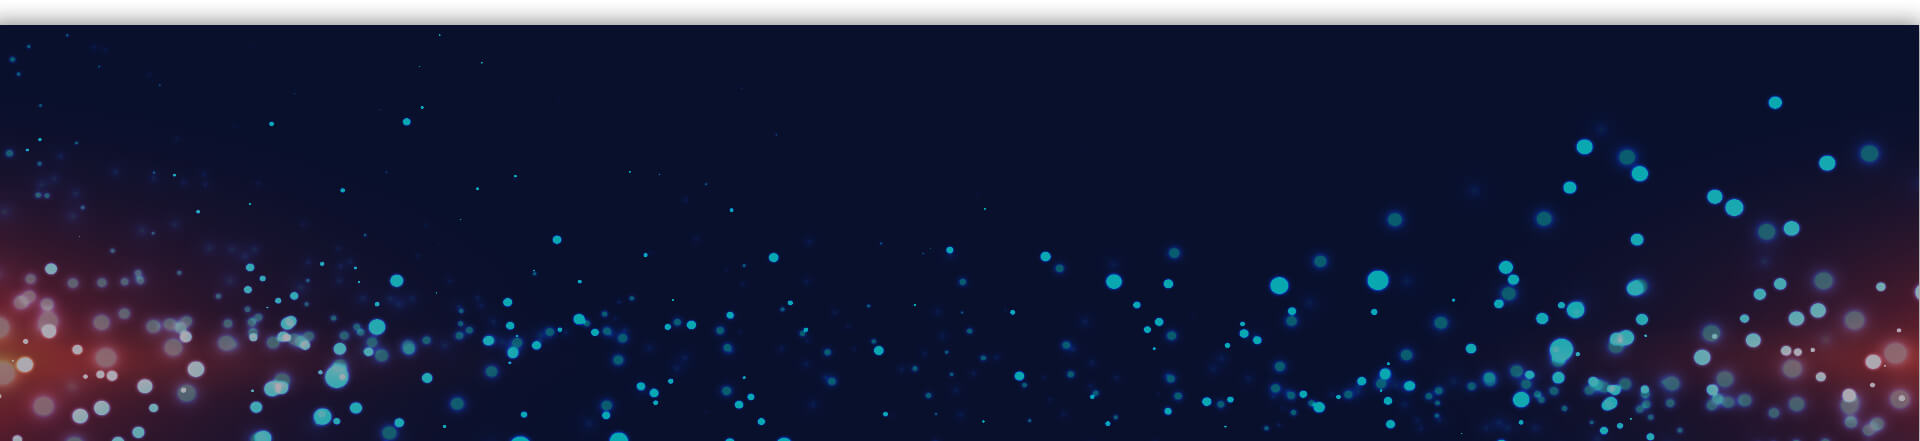
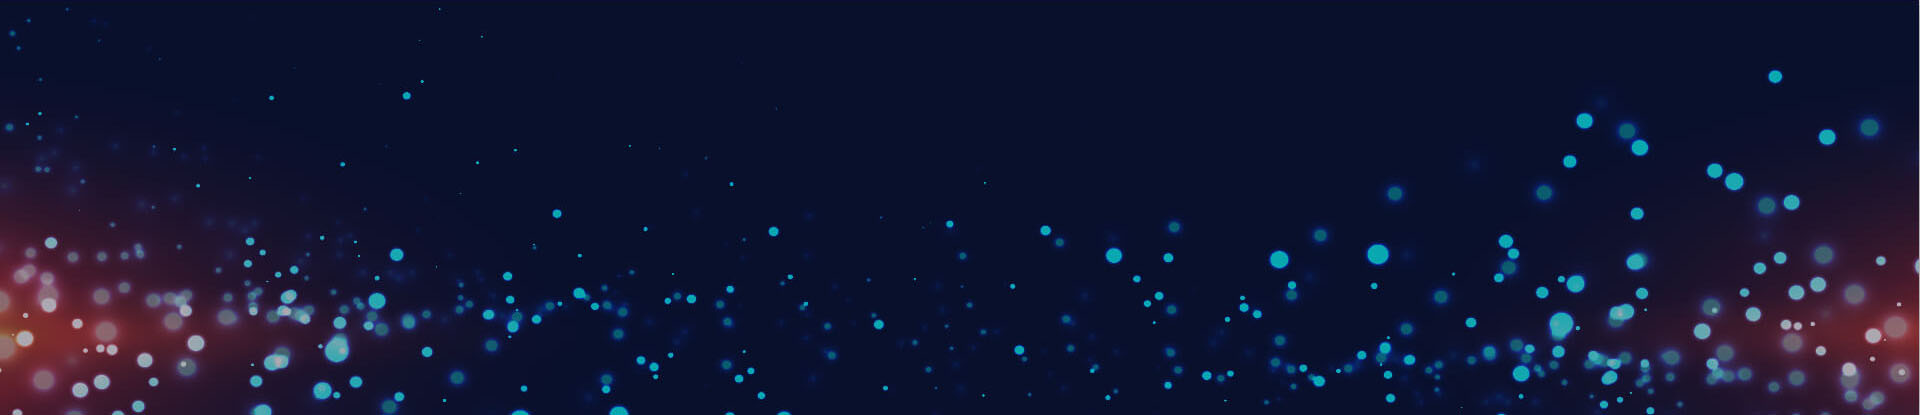
footer

diff --git a/index.html b/index.html
@@ -13,10 +13,10 @@
 </head>
 <body>
     <div class="wrapper">
-        <section class="hero">
+        <section class="hero" id="hero">
             <header class="header">
                 <div class="container header__container">
-                    <a class="logo header__logo">
+                    <a href="#" class="logo header__logo">
                         Service Direct System
                     </a>
                     <a href="mailto:info@mail.ru" class="mail heder__mail">
@@ -45,22 +45,22 @@
             <nav class="menu">
                 <ul class="menu__list">
                     <li class="menu__item">
-                        <a href="#" class="menu__link">
+                        <a href="#hero" class="menu__link">
                             Главная
                         </a>
                     </li>
                     <li class="menu__item">
-                        <a href="#" class="menu__link">
+                        <a href="#services" class="menu__link">
                             Услуги
                         </a>
                     </li>
                     <li class="menu__item">
-                        <a href="#" class="menu__link">
+                        <a href="#about" class="menu__link">
                             О нас
                         </a>
                     </li>
                     <li class="menu__item">
-                        <a href="#" class="menu__link">
+                        <a href="#footer" class="menu__link">
                             Контакты
                         </a>
                     </li>
@@ -87,7 +87,7 @@
                 </div>
             </div>
         </section>
-        <section class="services">
+        <section class="services" id="services">
             <div class="container services__container">
                 <h2 class="title-2 services__title">
                     Наши услуги
@@ -402,6 +402,80 @@
                 </ul>
             </div>
         </section>
+        <section class="about" id="about">
+            <div class="container about__container">
+                <h2 class="title-2 about__title">
+                    О нас
+                </h2>
+                <div class="about__content">
+                    <div class="about__img">
+                        <img src="img/About.png" alt="foto">
+                    </div>
+                    <div class="about__desc">
+                        <p class="about__text about__text--first">
+                            Компания Service Direct System была создана в 2006 году и изначально позиционировала себя как узкоспециализированного разработчика софта для рынка такси. Однако с годами мы находили для наших программ все новые и новые применения. 
+                        </p>
+                        <p class="about__text">
+                            За многие годы деятельности нашей фирмы, у нас сложился и успешно работает дружный коллектив высокопрофессиональных, опытных программистов. Мы готовы решать многоуровневые задачи любой сложности 
+                        </p>
+                    </div>
+                </div>
+            </div>
+        </section>
+        <footer class="footer" id="footer">
+            <div class="container footer__container">
+                <div class="footer__content">
+                    <a href="#" class="logo footer__logo">
+                        Service Direct System
+                    </a>
+                    <p class="footer__name">
+                        ООО «Service Direct System»
+                    </p>
+                    <address class="footer__address">
+                        г. Москва, ул.. Никитская, д. 10
+                    </address>
+                </div>
+                <div class="footer__content footer__content--middle">
+                    <nav class="menu footer__menu">
+                        <ul class="menu__list">
+                            <li class="menu__item">
+                                <a href="#hero" class="menu__link">
+                                    Главная
+                                </a>
+                            </li>
+                            <li class="menu__item">
+                                <a href="#services" class="menu__link">
+                                    Услуги
+                                </a>
+                            </li>
+                            <li class="menu__item">
+                                <a href="#about" class="menu__link">
+                                    О нас
+                                </a>
+                            </li>
+                            <li class="menu__item">
+                                <a href="#footer" class="menu__link">
+                                    Контакты
+                                </a>
+                            </li>
+                        </ul>
+                    </nav>
+                    <p class="footer__copy">
+                        &#xa9; 2019 / Все права защищены
+                    </p>
+                </div>
+                <div class="footer__content footer__content--right">
+                    <a href="tel:+79876543210" class="phone footer__phone">
+                        <img src="img/call.png" alt="phone" class="phone__icon">
+                        <span>+7 (987) 654-32-10</span>
+                    </a>
+                    <a href="mailto:info@mail.ru" class="mail footer__mail">
+                        <img src="img/letter.png" alt="letter" class="mail__icon">
+                        <span>info@mail.ru</span>
+                    </a>
+                </div>
+            </div>
+        </footer>
     </div>
 <script src="js/jquery-3.3.1.min.js"></script>
 <script src="js/jquery.arcticmodal-0.3.min.js"></script>

diff --git a/css/main.css b/css/main.css
@@ -90,7 +90,9 @@ img {
     justify-content: space-between;
 }
 
-.header a {
+.mail,
+.logo,
+.phone {
     color: #fff;
     font-family: 'Myriad Pro';
     font-size: 24px;
@@ -100,6 +102,17 @@ img {
 
 .logo {
     font-family: 'Raleway';
+}
+
+.mail,
+.phone {
+    display: flex;
+    align-items: center;
+}
+
+.mail__icon,
+.phone__icon {
+    margin-right: 9px;
 }
 
 .offer {
@@ -374,4 +387,128 @@ img {
 
 .cost__text--mb {
     margin-bottom: 20px;
+}
+
+/******************* about *******************/
+
+.about {
+    margin-bottom: 150px;
+}
+
+.about__title {
+    text-align: center;
+    margin-bottom: 66px;
+}
+
+.about__content {
+    display: flex;
+    justify-content: space-around;
+    align-items: center;
+}
+
+.about__img {
+    width: 547px;
+    height: 345px;
+}
+
+.about__desc {
+    width: 547px;
+    height: 322px;
+}
+
+.about__text {
+    font-size: 18px;
+    line-height: 30px;
+    letter-spacing: 0.45px;
+}
+
+.about__text--first {
+    margin-bottom: 50px;
+}
+
+/******************* footer *******************/
+
+.footer {
+    padding-top: 80px;
+    padding-bottom: 80px;
+    background: url('../img/footer-bg.jpg') no-repeat center center;
+    background-size: cover;
+    box-shadow: 0 0 16px 12px rgba(0, 0, 0, 0.18);
+    position: relative;
+}
+
+.footer__container {
+    display: flex;
+    align-items: flex-start;
+}
+
+.footer__content {
+    width: 33.3%;
+}
+
+.footer__content--middle {
+    padding-left: 63px;
+}
+
+.footer__logo {
+    margin-bottom: 25px;
+}
+
+.footer__name,
+.footer__address {
+    color: #fff;
+    font-weight: 500;
+    letter-spacing: 0.4px;
+    margin-bottom: 15px;
+    font-style: normal;
+}
+
+.footer__menu {
+    background: transparent;
+    box-shadow: none;
+}
+
+.footer__menu .menu__list {
+    flex-direction: column;
+    align-items: flex-start;
+    padding: 0;
+    margin-bottom: 45px;
+}
+
+.footer__menu .menu__item {
+    margin-bottom: 25px;
+}
+
+.footer__menu .menu__item .menu__link {
+    color: #fff;
+    font-size: 25px;
+    font-weight: 500;
+}
+
+.footer__menu .menu__item .menu__link:hover {
+    color: #ffc200;
+}
+
+.footer__menu .menu__item .menu__link:not(:hover) {
+    transition: all 0.5s ease;
+    -webkit-transition: all 0.5s ease;
+    -moz-transition: all 0.5s ease;
+    -ms-transition: all 0.5s ease;
+    -o-transition: all 0.5s ease;
+}
+
+.footer__copy {
+    color: #fff;
+    font-size: 18px;
+    letter-spacing: 0.45px;
+}
+
+.footer__content--right {
+    display: flex;
+    flex-direction: column;
+    align-items: flex-end;
+}
+
+.footer__phone {
+    margin-bottom: 37px;
 }
